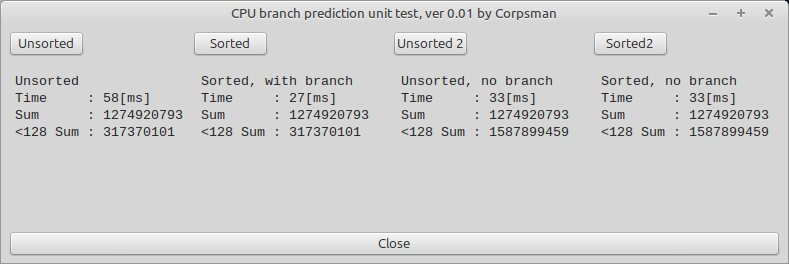
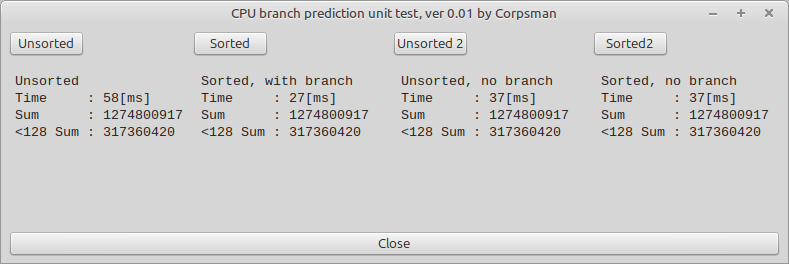
ADD: Update preview image and add hint to Gettickcount64

diff --git a/Content/CPU_branch_prediction_unit/README.md b/Content/CPU_branch_prediction_unit/README.md
@@ -79,7 +79,7 @@ Begin
     result.x := result.x + a[i];
     // Remove branch (1) by "calculating"
     // Convert the if condition to 0 or 1, then multiply by a[i] during summation
-    tmp := Byte(Not (a[i] Shr 7) * a[i]);
+    tmp := (Byte((Not a[i]) Shr 7)) * a[i];
     result.y := result.y + tmp;
   End; // (2)
 End;
@@ -94,13 +94,13 @@ As a final validation step, we also run the reduced-branch version on the sorted
 ## Conclusion
 - Flushing the CPU pipeline incurs a high performance cost.  
 - The CPU branch prediction unit can significantly improve code execution speed (compare **Unsorted** with **Sorted**).  
-- Branch prediction effectiveness depends on the algorithm’s structure—sorted data in this example improves predictability.  
-- When execution time is critical, it is beneficial to examine frequently executed code to remove branches or reorder data for better predictability.
+- Branch prediction effectiveness depends on the algorithm’s structure—sorted data in this example improves predictability(**Sorted**).  
+- When execution time is critical, it is beneficial to examine frequently executed code to remove branches or reorder data for better predictability (**Sorted**, **Unsorted2**).
 
 ### Discussion of Reliability of the Results
 
 The timing measurements shown in the screenshot and the provided code are highly dependent on the hardware used. However, the results should scale across different hardware—that is, the measured times should increase on slower CPUs and decrease on more powerful ones.
 
-If you do not observe any difference between the **Sorted** and **Unsorted** times, it is likely that your CPU does not have a branch prediction unit.
+If you do not observe any difference between the **Sorted** and **Unsorted** times, it is likely that your CPU does not have a branch prediction unit, or you run the tests on a Windows system (see [Gettickount64](../Gettickcount64)).
 
 All tests were executed on an **AMD Ryzen 7 7730U with Radeon Graphics**.
